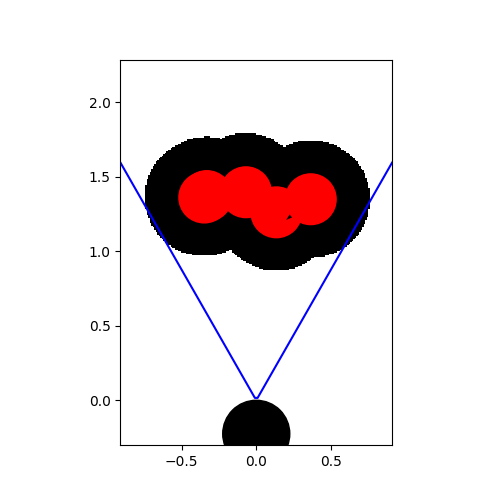
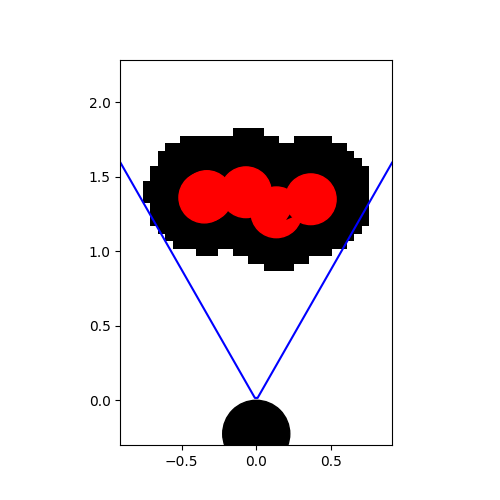
.

diff --git a/Arlo/python/Exercises/from_picture_Ex4_2.py b/Arlo/python/Exercises/from_picture_Ex4_2.py
@@ -11,8 +11,12 @@ import cv2
 sys.path.append("..")
 from utils import find_corner_coordinates, detector
 
-from RRT.grid_occ import GridOccupancyMap
+from path_planning.grid_occ import GridOccupancyMap
+import path_planning.robot_models as robot_models
+from path_planning.rrt import RRT
+
 np.set_printoptions(threshold=sys.maxsize)
+from matplotlib.animation import FFMpegWriter
 
 DISTANCE_TO_CENTER = 0.115
 BOX_RADIUS = 0.17
@@ -69,7 +73,8 @@ plt.savefig("map.png")
 
 # --------------------------
 
-map = GridOccupancyMap(low=(-maximum_absolute_value-0.5, -0.3), high=(maximum_absolute_value+0.5, max(z_es)+1), res=0.01)
+path_res = 0.05
+map = GridOccupancyMap(low=(-maximum_absolute_value-0.5, -0.3), high=(maximum_absolute_value+0.5, max(z_es)+1), res=path_res)
 for i in range(map.n_grids[0]):
     for j in range(map.n_grids[1]):
         centroid = np.array([map.map_area[0][0] + map.resolution * (i+0.5), map.map_area[0][1] + map.resolution * (j+0.5)])
@@ -80,3 +85,36 @@ for i in range(map.n_grids[0]):
 
 map.draw_map()
 plt.savefig("Occupancy_grid.png")
+
+robot = robot_models.PointMassModel(ctrl_range=[-path_res, path_res])   #
+
+rrt = RRT(
+    start=[0, 0],
+    goal=[0, 1.9],
+    robot_model=robot,
+    map=map,
+    expand_dis=0.2,
+    path_resolution=path_res,
+    )
+
+show_animation = True
+metadata = dict(title="RRT Test")
+writer = FFMpegWriter(fps=15, metadata=metadata)
+fig = plt.figure()
+
+with writer.saving(fig, "rrt_test.mp4", 100):
+    path = rrt.planning(animation=show_animation, writer=writer)
+
+    if path is None:
+        print("Cannot find path")
+    else:
+        print("found path!!")
+
+        # Draw final path
+        if show_animation:
+            rrt.draw_graph()
+            plt.plot([x for (x, y) in path], [y for (x, y) in path], '-r')
+            plt.grid(True)
+            plt.pause(0.01)  # Need for Mac
+            plt.show()
+            writer.grab_frame()

diff --git a/Arlo/python/path_planning/rrt.py b/Arlo/python/path_planning/rrt.py
@@ -184,9 +184,9 @@ class RRT:
         return True
 
 
-import grid_occ, robot_models
 
 def main():
+    import grid_occ, robot_models
 
     path_res = 0.05
     map = grid_occ.GridOccupancyMap(low=(-1, 0), high=(1, 2), res=path_res)
